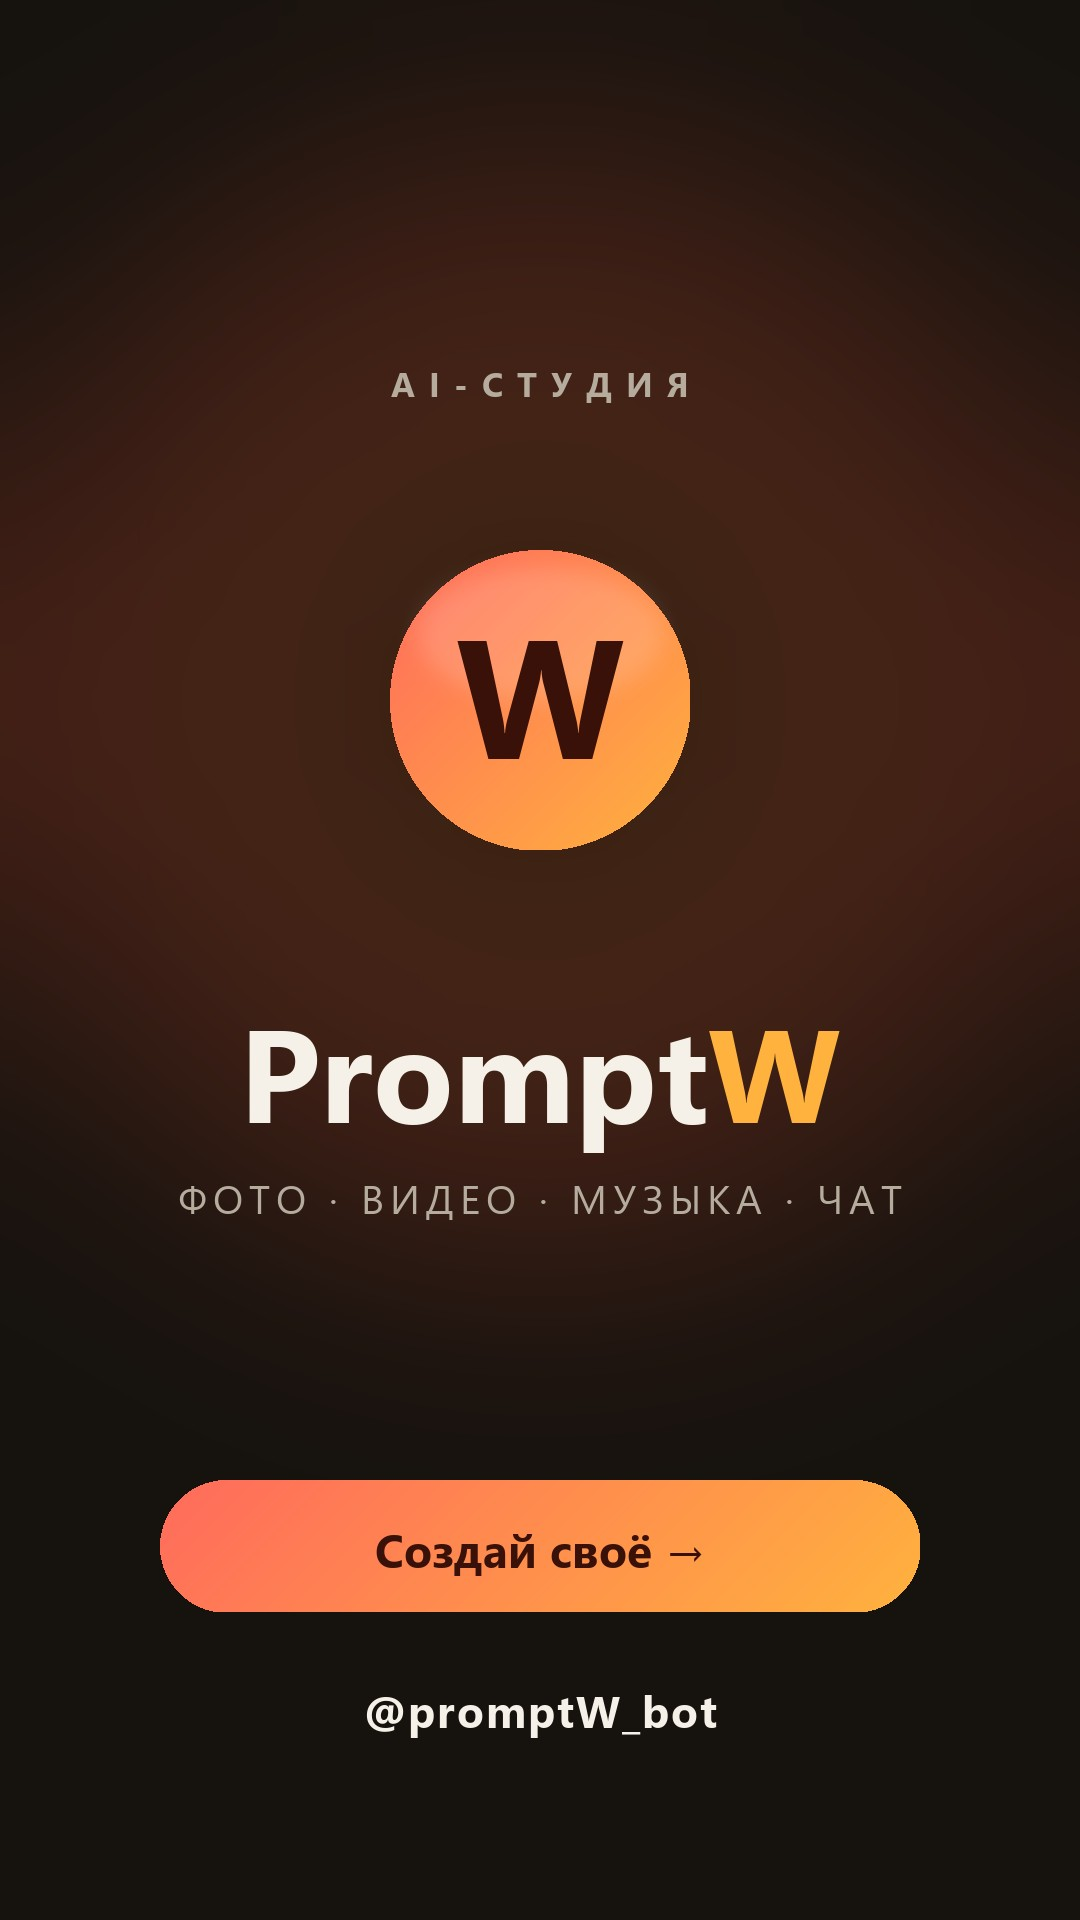
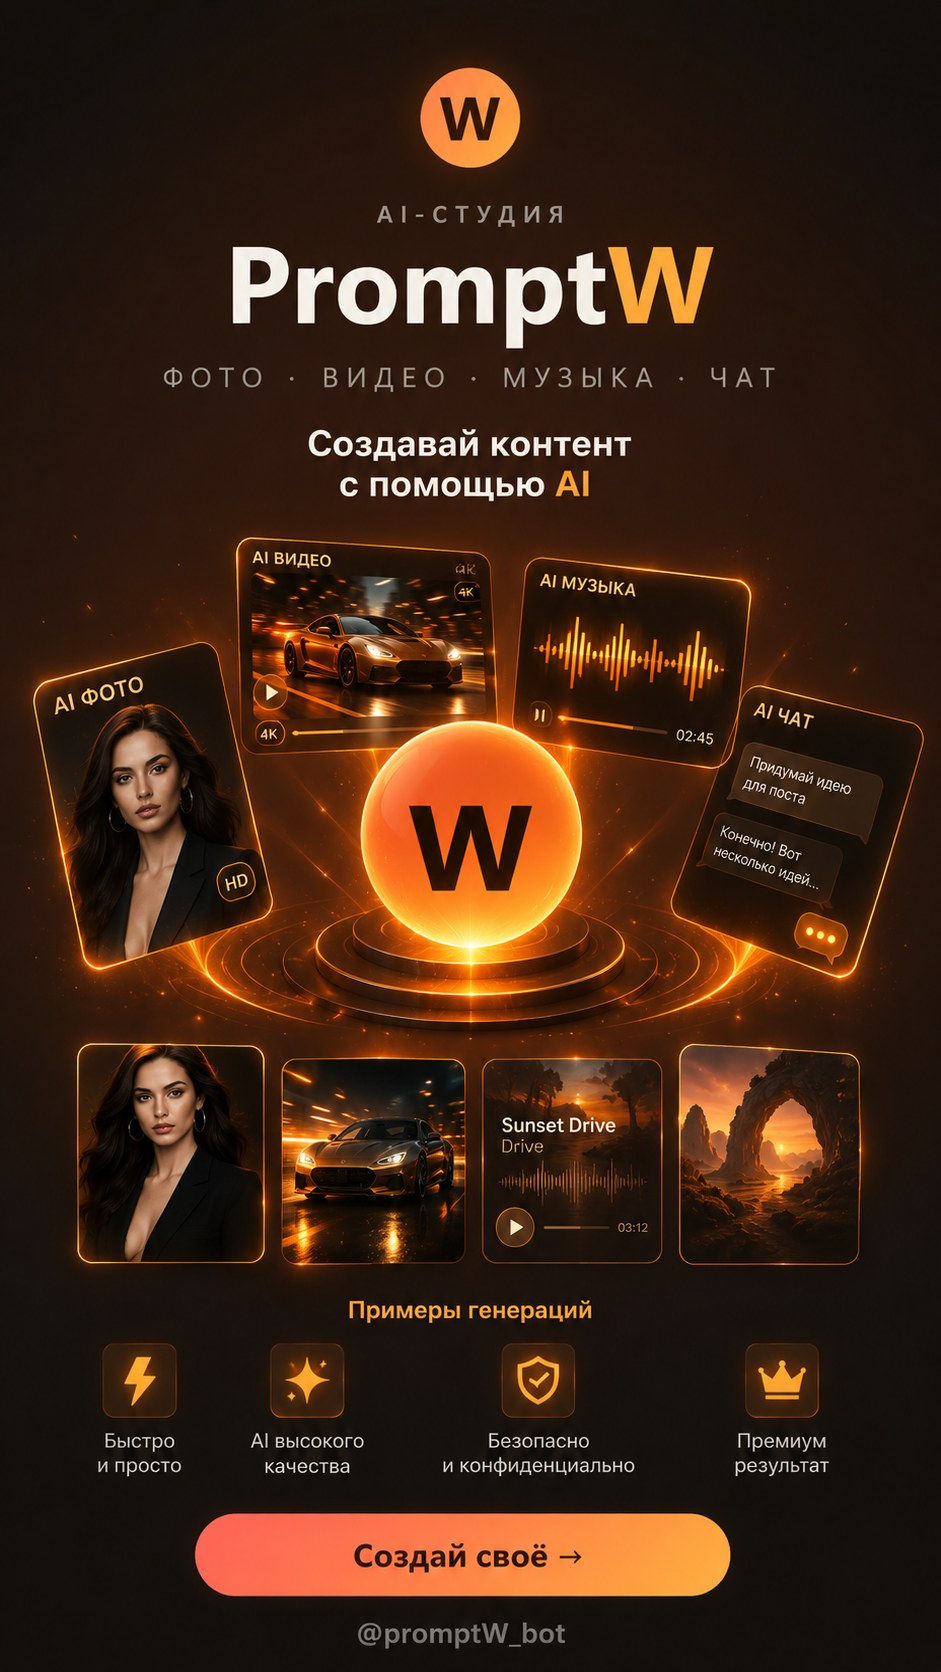
feat(rewards): новая рекламная сторис-картинка (акцент на шаблоны/тренды)
Заменяю share-story.jpg на брендовый промо-кадр с примерами генераций
(AI фото/видео/музыка/чат, тренды, CTA). mediaUrl получил ?v=2 для
немедленного обхода кэша. Бамп app.js v158.

diff --git a/webapp/static/js/app.js b/webapp/static/js/app.js
@@ -2646,7 +2646,7 @@ async function rwdClaim(rid, btn){
     if(btn) btn.disabled=false;
 }
 function rwdShareStory(rid, btn){
-    var mediaUrl = location.origin + "/static/img/share-story.jpg";
+    var mediaUrl = location.origin + "/static/img/share-story.jpg?v=2";
     var shared=false;
     try {
         if(tg && tg.shareToStory){

diff --git a/webapp/templates/index.html b/webapp/templates/index.html
@@ -703,6 +703,6 @@
 </div>
 
 <script src="/static/js/i18n.js?v=110"></script>
-<script src="/static/js/app.js?v=157"></script>
+<script src="/static/js/app.js?v=158"></script>
 </body>
 </html>